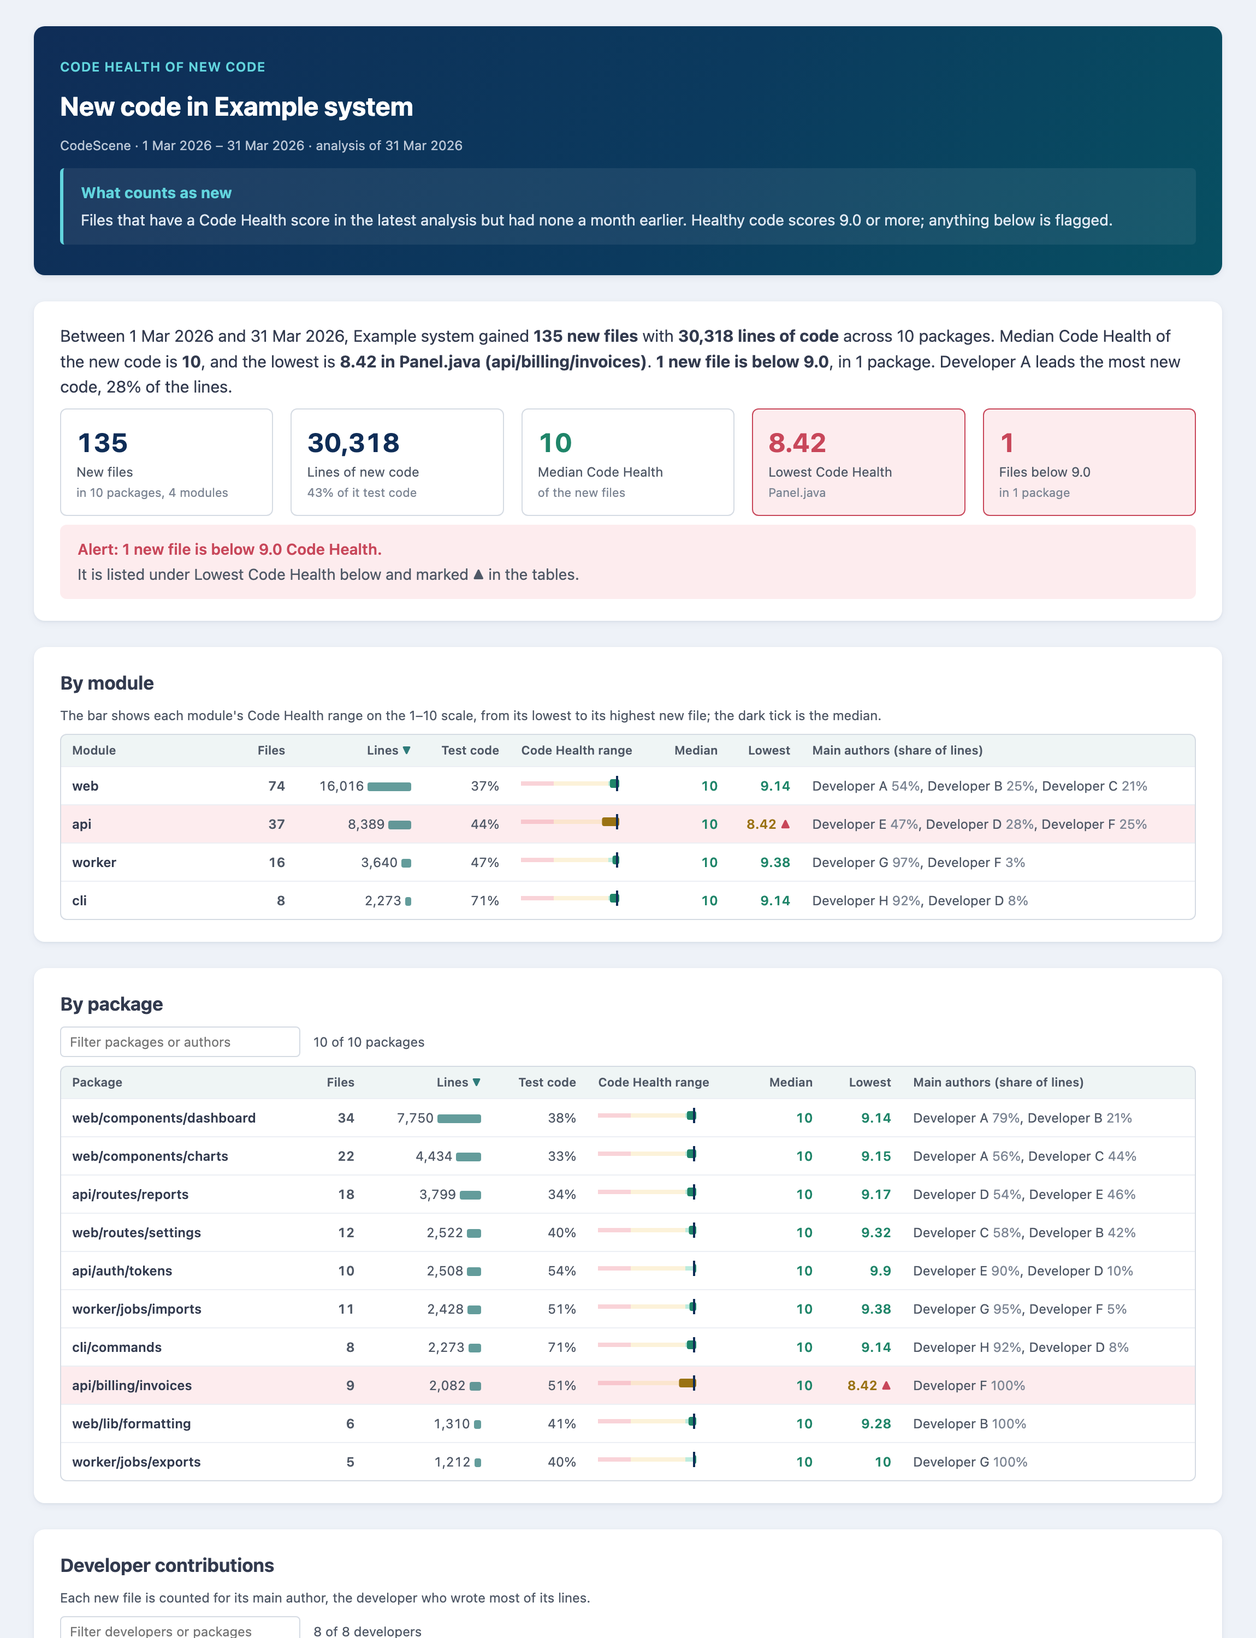
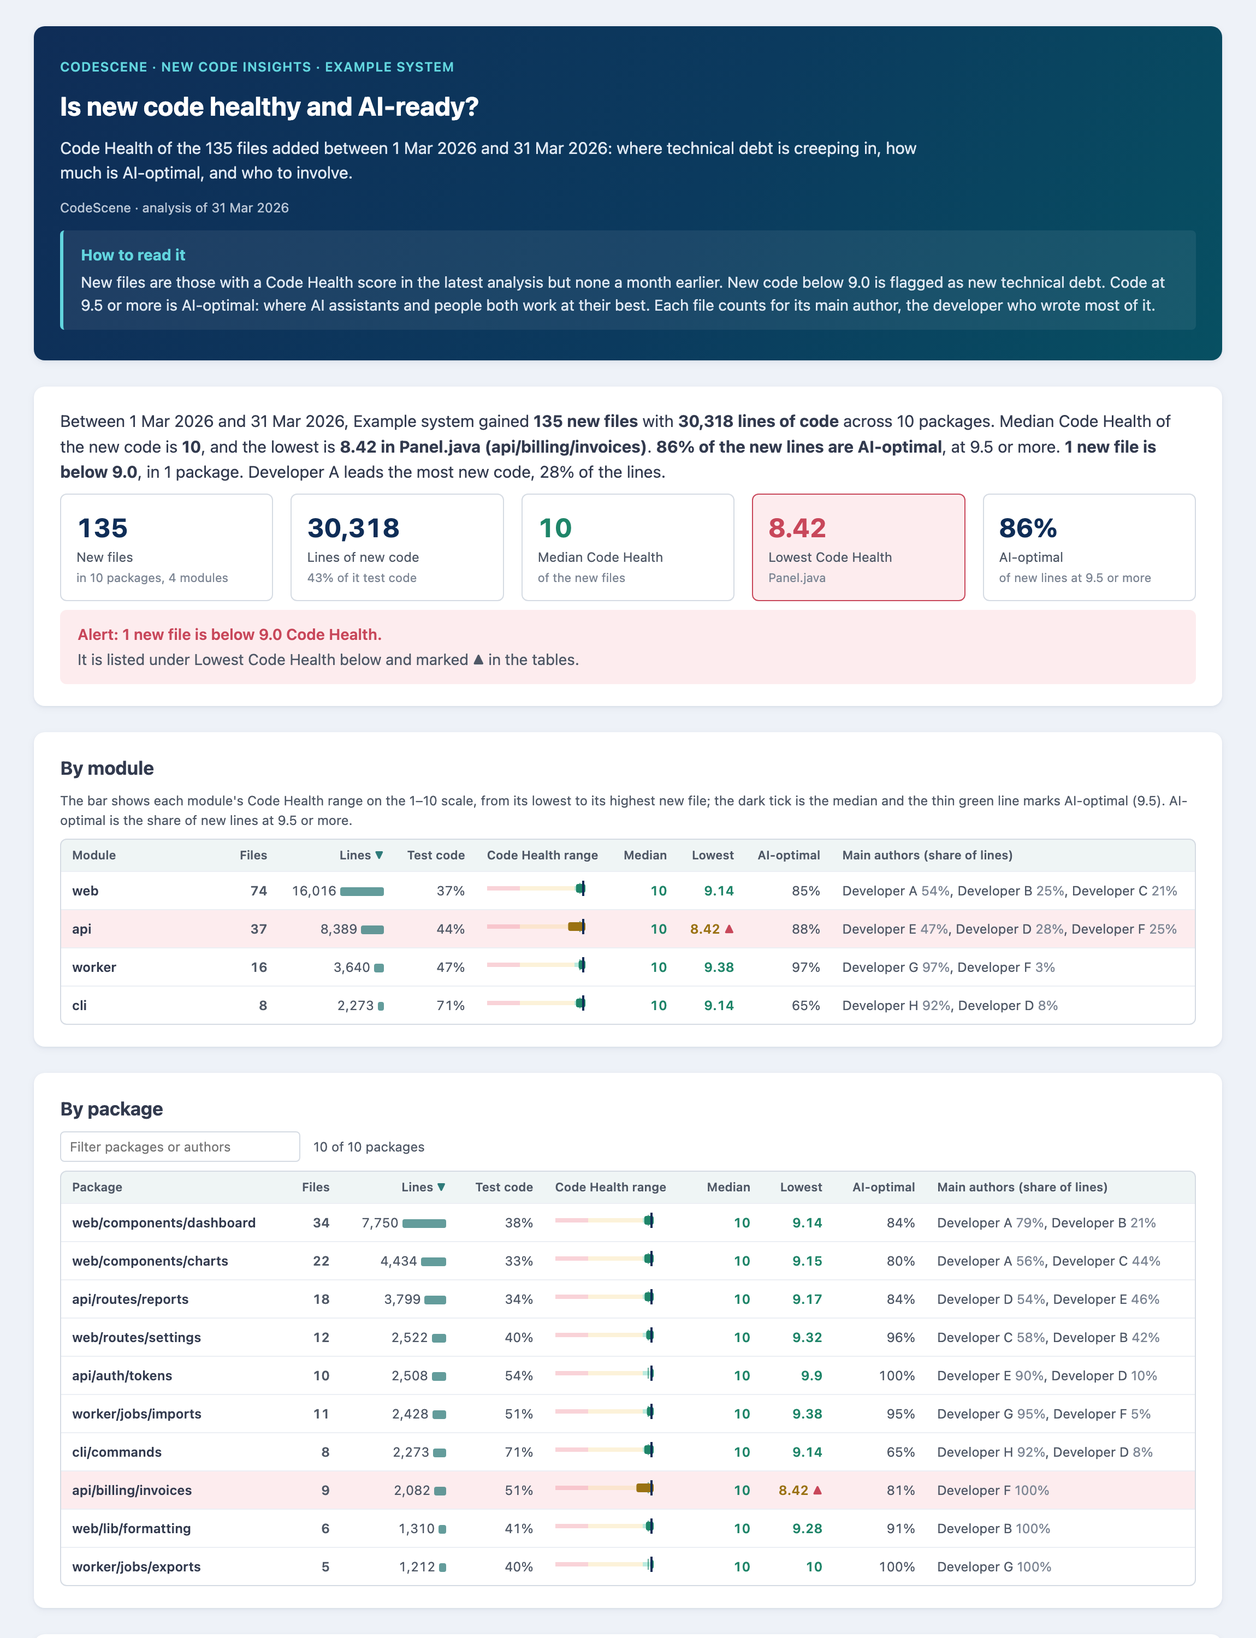
Frame the new code report as new code insights
Retitle the report "Is new code healthy and AI-ready?" under the eyebrow
"CodeScene · New code insights · <project>", matching the other reports,
with a subtitle giving the number of new files, the range and what the
report answers.

Add the AI-optimal level the subtitle promises: a KPI for the share of new
lines at 9.5 or more, an AI-optimal column per module, package and
developer, and a marker on the Code Health range bars. The level is a new
input, ai_optimal, defaulting to 9.5.

diff --git a/skills/new-code-health/renderers/report.html b/skills/new-code-health/renderers/report.html
@@ -3,7 +3,7 @@
 <head>
 <meta charset="utf-8">
 <meta name="viewport" content="width=device-width, initial-scale=1">
-<title>New code health</title>
+<title>New code insights</title>
 <style>
   /* CodeScene theme colours. The pastel fills match the app's Code Health bubbles; the -ink variants keep
      numbers and labels readable on white, and fall back to the pastels on dark backgrounds. */
@@ -104,6 +104,8 @@
 </style>
 <style>
   .headline { font-size: 15px; line-height: 1.55; }
+  section.hero .subtitle { font-size: 15px; line-height: 1.5; color: #dfe8f2; max-width: 820px; }
+  section.hero .meta { font-size: 12px; color: #b9c6d6; }
   .kpi.alert { border-color: var(--unhealthy-ink); background: var(--address-tint); }
   .kpi.alert .value { color: var(--unhealthy-ink); }
   .kpi.ok .value { color: var(--healthy-ink); }
@@ -150,10 +152,12 @@
 
   const files = report.files || [];
   if (!files.length) {
-    root.innerHTML = `<section><h1>New code in ${esc(report.project?.name || "")}</h1><p class="secondary">No new files in this range.</p></section>`;
+    root.innerHTML = `<section><div class="eyebrow">CodeScene · New code insights · ${esc(report.project?.name || "")}</div><h1>Is new code healthy and AI-ready?</h1><p class="secondary">No new files in this range.</p></section>`;
     return;
   }
   const T = report.threshold ?? 9.0;
+  // Code Health from which code is AI-optimal: where AI assistants and people both work at their best.
+  const AI = report.aiOptimal ?? 9.5;
   // How many rows the "By package", "Developer contributions" and "Lowest Code Health" tables show. Set maxPackages,
   // maxDevelopers and maxLowestFiles in the report data to change them; 0 shows all.
   const limit = (v) => (Number.isInteger(v) && v >= 0 ? v : 20);
@@ -181,6 +185,7 @@
     const hs = fs.map((f) => f.codeHealth);
     const lines = fs.reduce((a, f) => a + f.lines, 0);
     const testLines = fs.filter((f) => f.test).reduce((a, f) => a + f.lines, 0);
+    const aiLines = fs.filter((f) => f.codeHealth >= AI).reduce((a, f) => a + f.lines, 0);
     const byAuthor = new Map();
     fs.forEach((f) => byAuthor.set(f.mainAuthor, (byAuthor.get(f.mainAuthor) || 0) + f.lines));
     const authors = [...byAuthor.entries()].sort((a, b) => b[1] - a[1]).map(([n, l]) => ({ name: n, share: lines ? l / lines : 0 }));
@@ -188,7 +193,7 @@
     const byPkg = new Map();
     fs.forEach((f) => byPkg.set(f.package, (byPkg.get(f.package) || 0) + f.lines));
     const packages = [...byPkg.entries()].sort((a, b) => b[1] - a[1]).map(([n]) => n);
-    return { name, files: fs.length, lines, testShare: lines ? testLines / lines : 0, median: median(hs), min: Math.min(...hs), max: Math.max(...hs),
+    return { name, files: fs.length, lines, testShare: lines ? testLines / lines : 0, aiShare: lines ? aiLines / lines : 0, median: median(hs), min: Math.min(...hs), max: Math.max(...hs),
       below: fs.filter((f) => f.codeHealth < T).length, authors, lowest, packages, mainAuthor: authors[0]?.name || "" };
   }
 
@@ -209,6 +214,7 @@
       <rect x="0" y="5" width="${x(4)}" height="4" fill="var(--unhealthy)" opacity=".35"/>
       <rect x="${x(4)}" y="5" width="${x(9) - x(4)}" height="4" fill="var(--problematic)" opacity=".35"/>
       <rect x="${x(9)}" y="5" width="${W - x(9)}" height="4" fill="var(--healthy)" opacity=".6"/>
+      <rect x="${x(AI) - 0.5}" y="2" width="1" height="${H - 4}" fill="var(--healthy-ink)" opacity=".7"/>
       <rect x="${Math.min(x(p.min), W - 3)}" y="3" width="${Math.max(3, x(p.max) - x(p.min))}" height="8" rx="2" fill="var(--${cls(p.min)}-ink)"/>
       <rect x="${Math.min(x(p.median), W - 2) - 1}" y="0" width="2" height="${H}" fill="var(--navy)"/></svg>`;
   }
@@ -239,6 +245,7 @@
     { key: "range", label: "Code Health range", sort: (r) => r.min, asc: true, cell: (r) => `<td class="range">${rangeSvg(r)}</td>` },
     { key: "median", label: "Median", num: true, cell: (r) => chCell(r.median) },
     { key: "min", label: "Lowest", num: true, asc: true, cell: (r) => `<td class="num"><span class="ch ${cls(r.min)}">${ch1(r.min)}</span>${r.min < T ? ' <span class="flag">▲</span>' : ""}</td>` },
+    { key: "aiShare", label: "AI-optimal", num: true, cell: (r) => `<td class="num ${r.aiShare === 1 ? "good" : r.aiShare < 0.5 ? "bad" : ""}">${pct(r.aiShare)}</td>` },
     { key: "mainAuthor", label: "Main authors (share of lines)", asc: true, cell: (r) => `<td class="authors">${authorList(r.authors)}</td>` },
   ]; };
   const moduleColumns = groupColumns("Module", modules);
@@ -251,6 +258,7 @@
     { key: "testShare", label: "Test code", num: true, cell: (r) => `<td class="num">${pct(r.testShare)}</td>` },
     { key: "median", label: "Median", num: true, cell: (r) => chCell(r.median) },
     { key: "min", label: "Lowest", num: true, asc: true, cell: (r) => `<td class="num"><span class="ch ${cls(r.min)}">${ch1(r.min)}</span>${r.min < T ? ' <span class="flag">▲</span>' : ""}</td>` },
+    { key: "aiShare", label: "AI-optimal", num: true, cell: (r) => `<td class="num ${r.aiShare === 1 ? "good" : r.aiShare < 0.5 ? "bad" : ""}">${pct(r.aiShare)}</td>` },
     { key: "pk", label: "Main packages", sort: (r) => r.packages[0], asc: true, cell: (r) => `<td class="authors">${r.packages.slice(0, 3).map(esc).join(", ")}${r.packages.length > 3 ? ` <span class="share">+${r.packages.length - 3}</span>` : ""}</td>` },
   ];
 
@@ -266,6 +274,7 @@
   const lowestTxt = `${ch1(all.min)} in ${esc(all.lowest.path.split("/").pop())} (${esc(all.lowest.package)})`;
   const headline = `Between ${range}, ${esc(report.project.name)} gained <strong>${int(all.files)} new files</strong> with <strong>${int(all.lines)} lines of code</strong> across ${packages.length} packages.
     Median Code Health of the new code is <strong>${ch1(all.median)}</strong>, and the lowest is <strong>${lowestTxt}</strong>.
+    <strong>${pct(all.aiShare)} of the new lines are AI-optimal</strong>, at ${AI.toFixed(1)} or more.
     ${alertFiles.length ? `<strong>${alertFiles.length} new ${alertFiles.length === 1 ? "file is" : "files are"} below ${T.toFixed(1)}</strong>, in ${alertPkgs.length} ${alertPkgs.length === 1 ? "package" : "packages"}.` : `No new file is below the ${T.toFixed(1)} threshold for healthy code.`}
     ${top ? `${esc(top.name)} leads the most new code, ${pct(top.lines / all.lines)} of the lines.` : ""}`;
 
@@ -273,10 +282,11 @@
 
   root.innerHTML = `
   <section class="hero">
-    <div class="eyebrow">Code Health of new code</div>
-    <h1>New code in ${esc(report.project.name)}</h1>
-    <p class="small" style="color:#b9c6d6">${esc(report.project.source)} · ${fmtDate(report.range.from)} – ${fmtDate(report.range.to)} · analysis of ${fmtDate(report.analysisDate || report.generatedAt)}</p>
-    <div class="intro"><strong>What counts as new</strong>Files that have a Code Health score in the latest analysis but had none a month earlier. Healthy code scores ${T.toFixed(1)} or more; anything below is flagged.</div>
+    <div class="eyebrow">CodeScene · New code insights · ${esc(report.project.name)}</div>
+    <h1>Is new code healthy and AI-ready?</h1>
+    <p class="subtitle">Code Health of the ${int(all.files)} files added between ${range}: where technical debt is creeping in, how much is AI-optimal, and who to involve.</p>
+    <p class="meta">${esc(report.project.source)} · analysis of ${fmtDate(report.analysisDate || report.generatedAt)}</p>
+    <div class="intro"><strong>How to read it</strong>New files are those with a Code Health score in the latest analysis but none a month earlier. New code below ${T.toFixed(1)} is flagged as new technical debt. Code at ${AI.toFixed(1)} or more is AI-optimal: where AI assistants and people both work at their best. Each file counts for its main author, the developer who wrote most of it.</div>
   </section>
   <section>
     <p class="headline">${headline}</p>
@@ -285,7 +295,7 @@
       ${kpi(int(all.lines), "Lines of new code", `${pct(all.testShare)} of it test code`)}
       ${kpi(ch1(all.median), "Median Code Health", "of the new files", "ok")}
       ${kpi(ch1(all.min), "Lowest Code Health", esc(all.lowest.path.split("/").pop()), all.min < T ? "alert" : "ok")}
-      ${kpi(alertFiles.length, `Files below ${T.toFixed(1)}`, alertFiles.length ? `in ${alertPkgs.length} ${alertPkgs.length === 1 ? "package" : "packages"}` : "no alert", alertFiles.length ? "alert" : "ok")}
+      ${kpi(pct(all.aiShare), "AI-optimal", `of new lines at ${AI.toFixed(1)} or more`, all.aiShare === 1 ? "ok" : "")}
     </div>
     ${alertFiles.length
       ? `<div class="banner alert">Alert: ${alertFiles.length} new ${alertFiles.length === 1 ? "file is" : "files are"} below ${T.toFixed(1)} Code Health.<div class="sub">${alertFiles.length === 1 ? "It is" : "They are"} listed under Lowest Code Health below and marked ▲ in the tables.</div></div>`
@@ -293,7 +303,7 @@
   </section>
   <section>
     <h2>By module</h2>
-    <p class="small secondary">The bar shows each module's Code Health range on the 1–10 scale, from its lowest to its highest new file; the dark tick is the median.</p>
+    <p class="small secondary">The bar shows each module's Code Health range on the 1–10 scale, from its lowest to its highest new file; the dark tick is the median and the thin green line marks AI-optimal (${AI.toFixed(1)}). AI-optimal is the share of new lines at ${AI.toFixed(1)} or more.</p>
     ${sortableTable("modules", moduleColumns)}
   </section>
   <section>

diff --git a/skills/new-code-health/SKILL.md b/skills/new-code-health/SKILL.md
@@ -1,12 +1,17 @@
 ---
 name: codescene-new-code-health
-description: Builds a report on the Code Health of the code added to a CodeScene project over the last month. It shows how much new code there is, its median and lowest Code Health per module and package, an alert for new files below the healthy threshold, and which developers wrote it. Uses the CodeScene MCP server. Use when the user asks about new code, code added recently, whether new code is healthy, or who is writing the new code.
+description: Builds a report on whether the code added to a CodeScene project over the last month is healthy and AI-ready. It shows how much new code there is, its median and lowest Code Health per module and package, an alert for new technical debt, the share that is AI-optimal, and which developers to involve. Uses the CodeScene MCP server. Use when the user asks about new code, code added recently, whether new code is healthy or AI-ready, whether new technical debt is being added, or who is writing the new code.
 disable-model-invocation: true
 ---
 
-# New code health report
+# New code insights report
 
-Produces a one-page report on the files added to one project since CodeScene's Code Health snapshot a month before the latest analysis. For each module and package it shows the files and lines added, the share that is test code, and the **median** and **lowest** Code Health of the new files. A new file below the alert threshold, 9.0 by default, is an **alert**: new code should start out healthy.
+Produces a one-page report on the files added to one project since CodeScene's Code Health snapshot a month before the latest analysis. For each module and package it shows the files and lines added, the share that is test code, and the **median** and **lowest** Code Health of the new files. It answers two questions a leader has about the code being added now:
+
+- **Is it adding technical debt?** New code is where debt is cheapest to prevent. A new file below the alert threshold, 9.0 by default, is an **alert**.
+- **Is it AI-ready?** Code at 9.5 or more by default is **AI-optimal**: where AI assistants and people both work at their best. The report shows the share of new lines that is.
+
+The developer columns show where new knowledge sits and who to involve. They are not a productivity measure; say so if the user reads them that way.
 
 The data comes from `explore_project_files`: the latest analysis, not live data.
 
@@ -25,6 +30,7 @@ Collect these before starting. Use the project notes if they exist; otherwise as
 | Project | required: its name or its id. Resolve a name to the id with `list_projects`; if several projects match, ask the user which one |
 | Display name for the title | the project name from `list_projects` |
 | Alert threshold | `9.0` |
+| AI-optimal from | `9.5` |
 | Rows in the package, developer and lowest-file tables | `20` each; `0` shows all |
 | Packages | from the project notes: how modules and packages are read from the paths |
 | Author names | from the project notes: aliases to merge |
@@ -62,7 +68,7 @@ Map each new file to a `File`:
 
 **5. Merge author aliases.** The same person can appear under several names, such as a display name and a login. Use the aliases in the project notes. Otherwise, list names that look like the same person and ask the user which to merge; don't guess.
 
-**6. Render.** Build a `ReportData` object that validates against the schema, with `project` (`name`, `source`, `id`), `generatedAt`, `threshold`, `maxPackages`, `maxDevelopers`, `maxLowestFiles` and `notes`. Copy the renderer to the user's output location as `{{project-slug}}-new-code-health.html`, and replace the stub inside its `{{REPORT_DATA}}` block. Leave the rest unchanged. Put only JSON there. Open the file in a browser and check that the tables appear instead of an error box.
+**6. Render.** Build a `ReportData` object that validates against the schema, with `project` (`name`, `source`, `id`), `generatedAt`, `threshold`, `aiOptimal`, `maxPackages`, `maxDevelopers`, `maxLowestFiles` and `notes`. Copy the renderer to the user's output location as `{{project-slug}}-new-code-insights.html`, and replace the stub inside its `{{REPORT_DATA}}` block. Leave the rest unchanged. Put only JSON there. Open the file in a browser and check that the tables appear instead of an error box.
 
 Use `notes` for facts the reader needs, for example which author names were merged, or a main author known only by a login.
 
@@ -70,9 +76,10 @@ Use `notes` for facts the reader needs, for example which author names were merg
 
 ## How the renderer reads the data
 
-- **Summary:** new files, lines of new code and the share that is test code, the median and lowest Code Health, and the number of files below the threshold. A banner turns into an alert when any new file is below the threshold.
-- **By module and by package:** sortable tables with files, lines, test share, the Code Health range on the 1–10 scale, the median, the lowest, and the main authors with their share of the lines. Rows with a file below the threshold are highlighted. The package table shows at most `maxPackages` rows, by the sorted column, and has a filter that searches every package and author.
-- **Developer contributions:** each developer's files and lines as main author, their share of the new code, its median and lowest Code Health, and their main packages. At most `maxDevelopers` rows, with a filter.
+- **Header:** "Is new code healthy and AI-ready?", with the number of new files and the date range.
+- **Summary:** new files, lines of new code and the share that is test code, the median and lowest Code Health, and the share of new lines that is AI-optimal. A banner turns into an alert when any new file is below the threshold.
+- **By module and by package:** sortable tables with files, lines, test share, the Code Health range on the 1–10 scale with the AI-optimal line marked, the median, the lowest, the share of lines that is AI-optimal, and the main authors with their share of the lines. Rows with a file below the threshold are highlighted. The package table shows at most `maxPackages` rows, by the sorted column, and has a filter that searches every package and author.
+- **Developer contributions:** each developer's files and lines as main author, their share of the new code, its median and lowest Code Health, the share that is AI-optimal, and their main packages. At most `maxDevelopers` rows, with a filter.
 - **Lowest Code Health:** only new files below 10, lowest first, at most `maxLowestFiles` of them.
 
 ## Rules learned the hard way

diff --git a/README.md b/README.md
@@ -15,7 +15,7 @@ Everything here is generic: no project names, people or analysis numbers. Projec
 | [portfolio-overview](skills/portfolio-overview/SKILL.md) | A one-page summary of every project you can access, for technical leaders and managers: what works well, where attention is needed, and how much of the code is AI-optimal, by hotspot Code Health. [Details](#portfolio-overview) |
 | [mcp-safeguard-insights](skills/mcp-safeguard-insights/SKILL.md) | How a project's developers use the local Code Health MCP: safeguard checks, degradations prevented before commit, uplifts, the trend over a year, the most active users and out-of-date installations. [Details](#mcp-safeguard-insights) |
 | [pull-request-safeguards](skills/pull-request-safeguards/SKILL.md) | How Code Health safeguards work on pull requests: how often the review catches an issue, how many findings authors fix rather than ignore or suppress, week by week, per developer and per pull request. [Details](#pull-request-safeguards) |
-| [new-code-health](skills/new-code-health/SKILL.md) | The Code Health of the code added over the last month: new files and lines per module and package, their median and lowest Code Health, an alert for new files below 9.0, and who wrote them. [Details](#new-code-health) |
+| [new-code-health](skills/new-code-health/SKILL.md) | Whether the code added over the last month is healthy and AI-ready: new code per module and package, its median and lowest Code Health, an alert for new technical debt, the share that is AI-optimal, and who to involve. [Details](#new-code-insights) |
 
 ## Adding a skill
 
@@ -172,20 +172,20 @@ Every pull request gets a Code Health review before it merges. When the review f
 - **Developers:** a sortable table of each person's pull requests and their findings detected, fixed, ignored and suppressed. Aliases of one person are merged, and bots are listed apart.
 - **Pull requests with findings:** unresolved ones first, then by findings detected, plus a table per repository when there are several.
 
-### New code health
+### New code insights
 
-Shows whether the code added to a project over the last month starts out healthy.
+Answers "is new code healthy and AI-ready?" for the code added to a project over the last month: whether it adds technical debt, which is cheapest to prevent while the code is new, and whether it is AI-optimal, the Code Health where AI assistants and people both work at their best.
 
-![New code health report](docs/images/new-code-health.png)
+![New code insights report](docs/images/new-code-health.png)
 
 A file counts as new when it has a Code Health score in the latest analysis but none in CodeScene's snapshot a month earlier. The report is built from `explore_project_files`. It contains:
 
-- **A summary:** new files and lines of code, the share that is test code, the median and lowest Code Health of the new files, and an alert when any new file is below 9.0.
-- **By module and by package:** files, lines, the Code Health range with its median and lowest value, and the main authors with their share of the lines. The package table shows the top 20 by default and has a filter.
-- **Developer contributions:** each developer's new files and lines, their share of the new code and its Code Health. Also capped at 20 by default, with a filter.
+- **A summary:** new files and lines of code, the share that is test code, the median and lowest Code Health of the new files, the share of new lines that is AI-optimal (9.5 or more), and an alert when any new file is below 9.0.
+- **By module and by package:** files, lines, the Code Health range with its median and lowest value, the AI-optimal share, and the main authors with their share of the lines. The package table shows the top 20 by default and has a filter.
+- **Developer contributions:** each developer's new files and lines, their share of the new code, its Code Health and AI-optimal share: where new knowledge sits and who to involve. Also capped at 20 by default, with a filter.
 - **Lowest Code Health:** the new files below 10, lowest first.
 
-The row limits and the alert threshold are inputs of the skill.
+The row limits, the alert threshold and the AI-optimal level are inputs of the skill.
 
 ## License
 

diff --git a/skills/new-code-health/templates/project-notes.md b/skills/new-code-health/templates/project-notes.md
@@ -1,4 +1,4 @@
-# {{project-name}} new code health (project {{project-id}})
+# {{project-name}} new code insights (project {{project-id}})
 
 Keep this file in your own workspace (for example `codescene/projects/{{project-slug}}-new-code-health.md`), not in the shared library.
 
@@ -9,6 +9,7 @@ Keep this file in your own workspace (for example `codescene/projects/{{project-
 | Project id | {{project-id}} |
 | Display name | {{display-name}} |
 | Alert threshold | {{threshold}} |
+| AI-optimal from | {{ai-optimal}} |
 | Rows: packages, developers, lowest files | {{max-packages}}, {{max-developers}}, {{max-lowest-files}} |
 
 ## Packages
